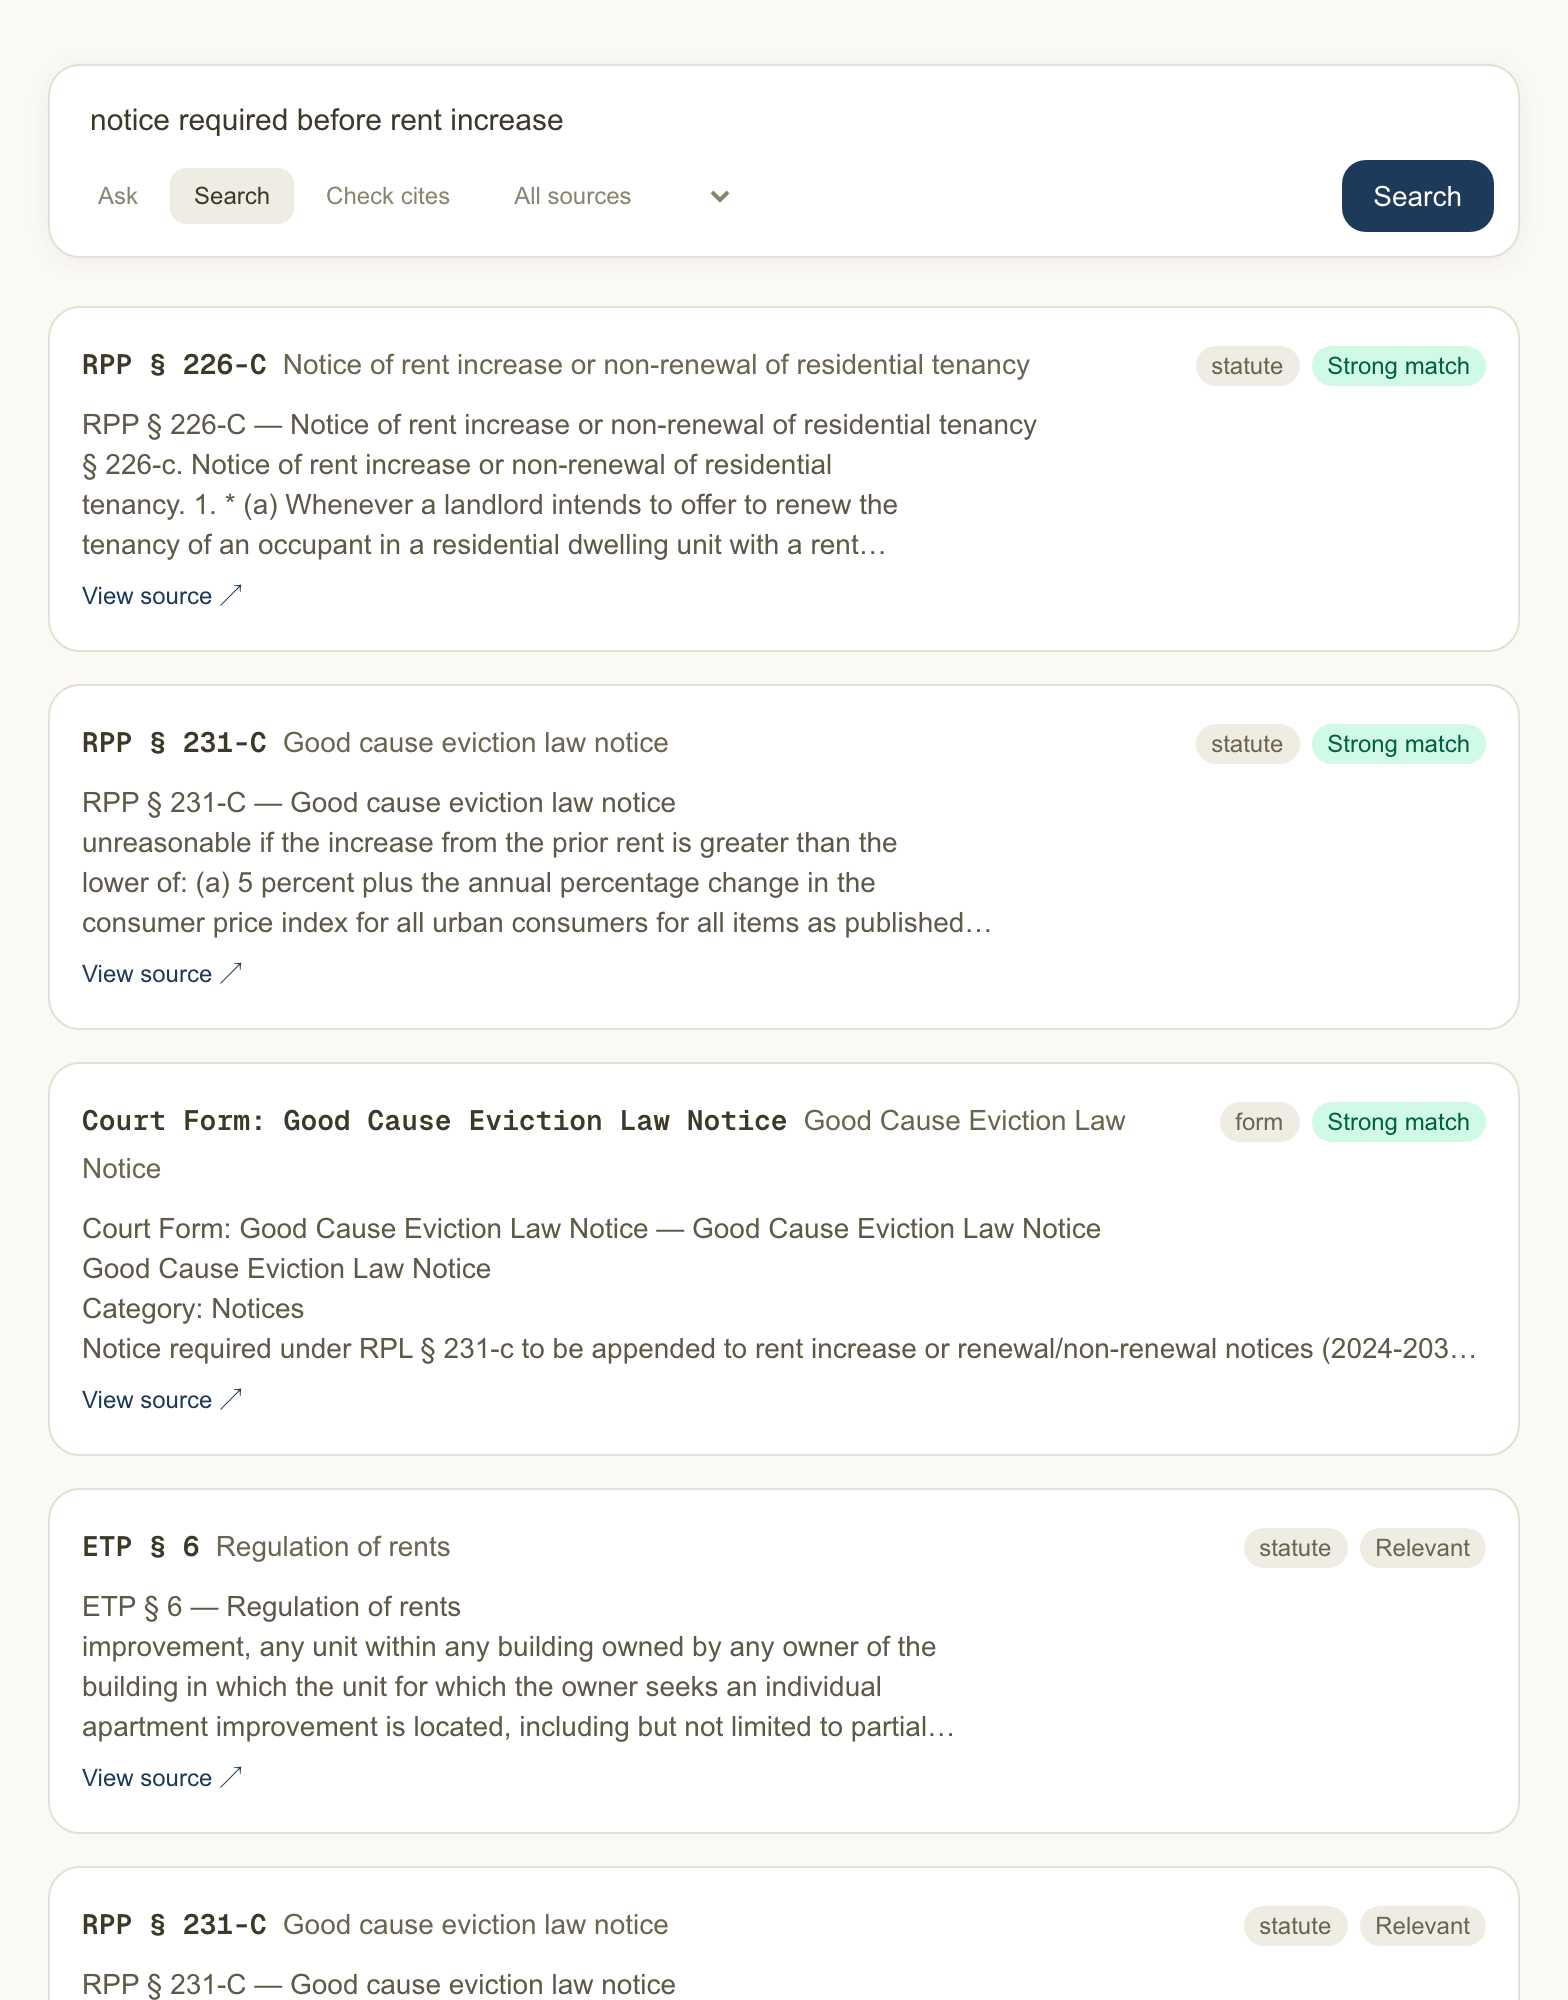
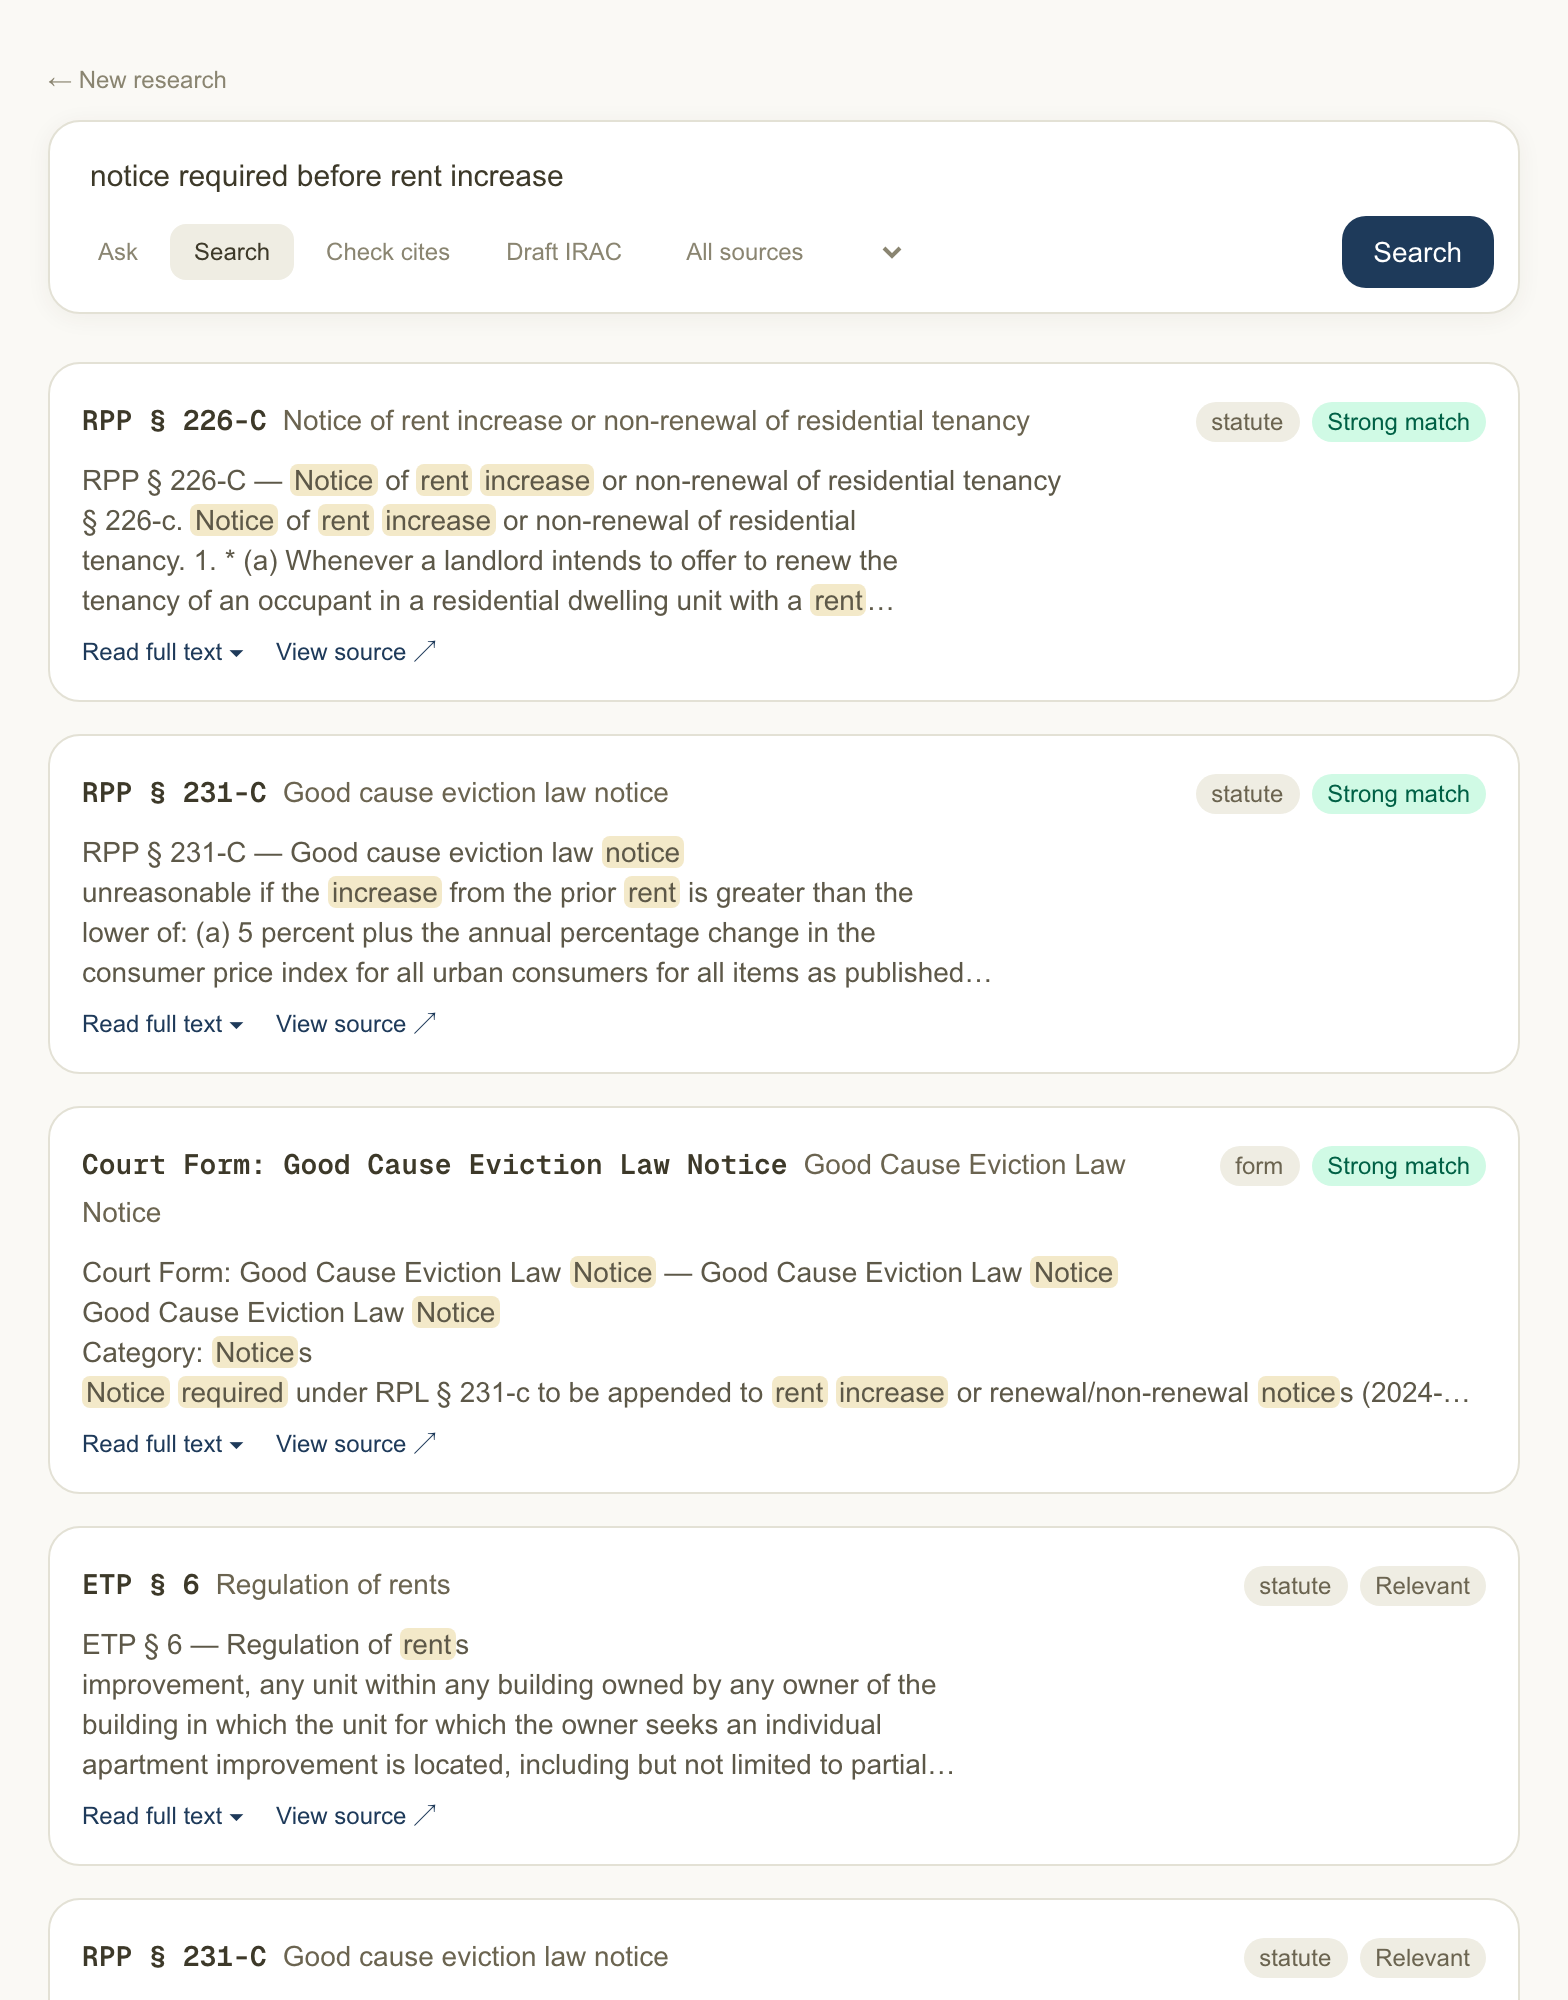
V-2.12.1: regenerate marketing screenshots against the redesigned UI

diff --git a/apps/web/app/app/page.tsx b/apps/web/app/app/page.tsx
@@ -1411,7 +1411,7 @@ export default function Home() {
               <span className="text-xl font-semibold tracking-tight [font-family:var(--font-serif)]">
                 Casewise
               </span>
-              <span className="text-[10px] text-[#a39f8d] dark:text-neutral-500">V-2.12.0</span>
+              <span className="text-[10px] text-[#a39f8d] dark:text-neutral-500">V-2.12.1</span>
             </Link>
             <button
               onClick={toggleSidebar}
@@ -1597,7 +1597,7 @@ export default function Home() {
             <span className="text-lg font-semibold tracking-tight [font-family:var(--font-serif)]">
               Casewise
             </span>
-            <span className="text-[10px] text-[#a39f8d] dark:text-neutral-500">V-2.12.0</span>
+            <span className="text-[10px] text-[#a39f8d] dark:text-neutral-500">V-2.12.1</span>
           </Link>
           <button
             onClick={() => setMobileNavOpen(true)}

diff --git a/scripts/capture_marketing_shots.py b/scripts/capture_marketing_shots.py
@@ -8,6 +8,7 @@ Costs ~2 Ask calls (a few cents).
 
 from __future__ import annotations
 
+import os
 import re
 from pathlib import Path
 
@@ -56,36 +57,52 @@ def main() -> None:
         )
         page = ctx.new_page()
 
+        # sign in when credentials are provided (Check cites and Search are
+        # account-gated; Ask also stops counting against the guest quota)
+        email = os.environ.get("CASEWISE_TEST_EMAIL")
+        password = os.environ.get("CASEWISE_TEST_PASSWORD")
+        if email and password:
+            page.goto("https://casewise.si/login", wait_until="networkidle")
+            page.locator('input[type="email"]').fill(email)
+            page.locator('input[type="password"]').fill(password)
+            page.get_by_role("button", name="Sign in", exact=True).click()
+            page.wait_for_url("**/app**", timeout=30_000)
+            print("signed in")
+
         # 1) Ask with verified quotations
         page.goto(BASE, wait_until="networkidle")
         page.get_by_placeholder(re.compile("Ask a legal question")).fill(
             "What does the warranty of habitability require, and what are the tenant's remedies?"
         )
         page.get_by_role("button", name="Research", exact=True).click()
-        page.wait_for_selector("text=Verified sources", timeout=240_000)
+        page.wait_for_selector("text=Verified authorities", timeout=240_000)
         page.wait_for_timeout(500)
         top_shot(page, OUT / "ask-verified.png")
         quote_line = page.locator("text=verified word-for-word").locator("xpath=ancestor::div[1]")
         if quote_line.count():
             element_shot(quote_line.first, OUT / "quotes-verified.png")
+        element_shot(
+            page.locator("aside", has_text="Verified authorities").last,
+            OUT / "authorities-panel.png",
+        )
 
         # 2) Building-grounded sources
-        page.get_by_role("button", name="New research").click()
+        page.get_by_role("button", name="New research").first.click()
         page.get_by_placeholder(re.compile("Ask a legal question")).fill(
             "My client rents at 888 Grand Concourse, Bronx — no heat and mold. What are her rights?"
         )
         page.get_by_role("button", name="Research", exact=True).click()
-        page.wait_for_selector("text=building record", timeout=240_000)
+        page.wait_for_selector("aside >> text=building record", timeout=240_000)
         page.wait_for_timeout(500)
         page.wait_for_timeout(1500)
-        sources = page.locator("xpath=//div[contains(@class,'mt-4')][.//text()[contains(., 'Verified sources')]]")
-        element_shot(sources.last, OUT / "building-sources.png")
+        panel = page.locator("aside", has_text="Verified authorities")
+        element_shot(panel.last, OUT / "building-sources.png")
 
         # 3) Check cites audit with a fabricated citation flagged
-        page.get_by_role("button", name="New research").click()
+        page.get_by_role("button", name="New research").first.click()
         page.get_by_role("button", name="Check cites").first.click()
         page.locator("textarea").fill(AUDIT_TEXT)
-        page.get_by_role("button", name="Check cites").last.click()
+        page.get_by_role("button", name="Check citations", exact=True).click()
         page.wait_for_selector("text=Citation audit", timeout=120_000)
         page.wait_for_timeout(500)
         card = page.locator("text=Citation audit").locator(
@@ -94,7 +111,7 @@ def main() -> None:
         element_shot(card.first, OUT / "check-cites.png")
 
         # 4) Search with source filters and relevance grades
-        page.get_by_role("button", name="New research").click()
+        page.get_by_role("button", name="New research").first.click()
         page.get_by_role("button", name="Search", exact=True).click()
         page.get_by_placeholder(re.compile("Search statutes")).fill(
             "notice required before rent increase"

diff --git a/PROJECT.md b/PROJECT.md
@@ -1,6 +1,6 @@
 # Casewise — Project Reference
 
-**Version: V-2.12.0** (2026-10-20)
+**Version: V-2.12.1** (2026-10-20)
 
 > Maintenance rule: this document is versioned with the product. When the
 > version shown in the app sidebar changes, update this file in the same
@@ -146,6 +146,10 @@ point-in-time questions ("what was the law when this lease was signed").
   grounded in research report "IRAC drafting method and examples"
   (reports/; golden-set bar-exam PDFs in research_notes/…/source_pdfs —
   NCBE/BOLE items are internal-eval-only, licensing).
+- V-2.12.1 (2026-10-20): marketing screenshots regenerated against the
+  new UI (capture script: signs in via CASEWISE_TEST_EMAIL/_PASSWORD env
+  since Check cites/Search are gated; panel-scoped selectors; new
+  authorities-panel.png asset).
 - V-2.12.0 (2026-10-20, SHIPPED as one release): full UI/UX redesign
   round (Abdul's mockups + cases.ai study), previews approved phase by
   phase. Phase B: navy verification banner per answer (citations/quotes/
